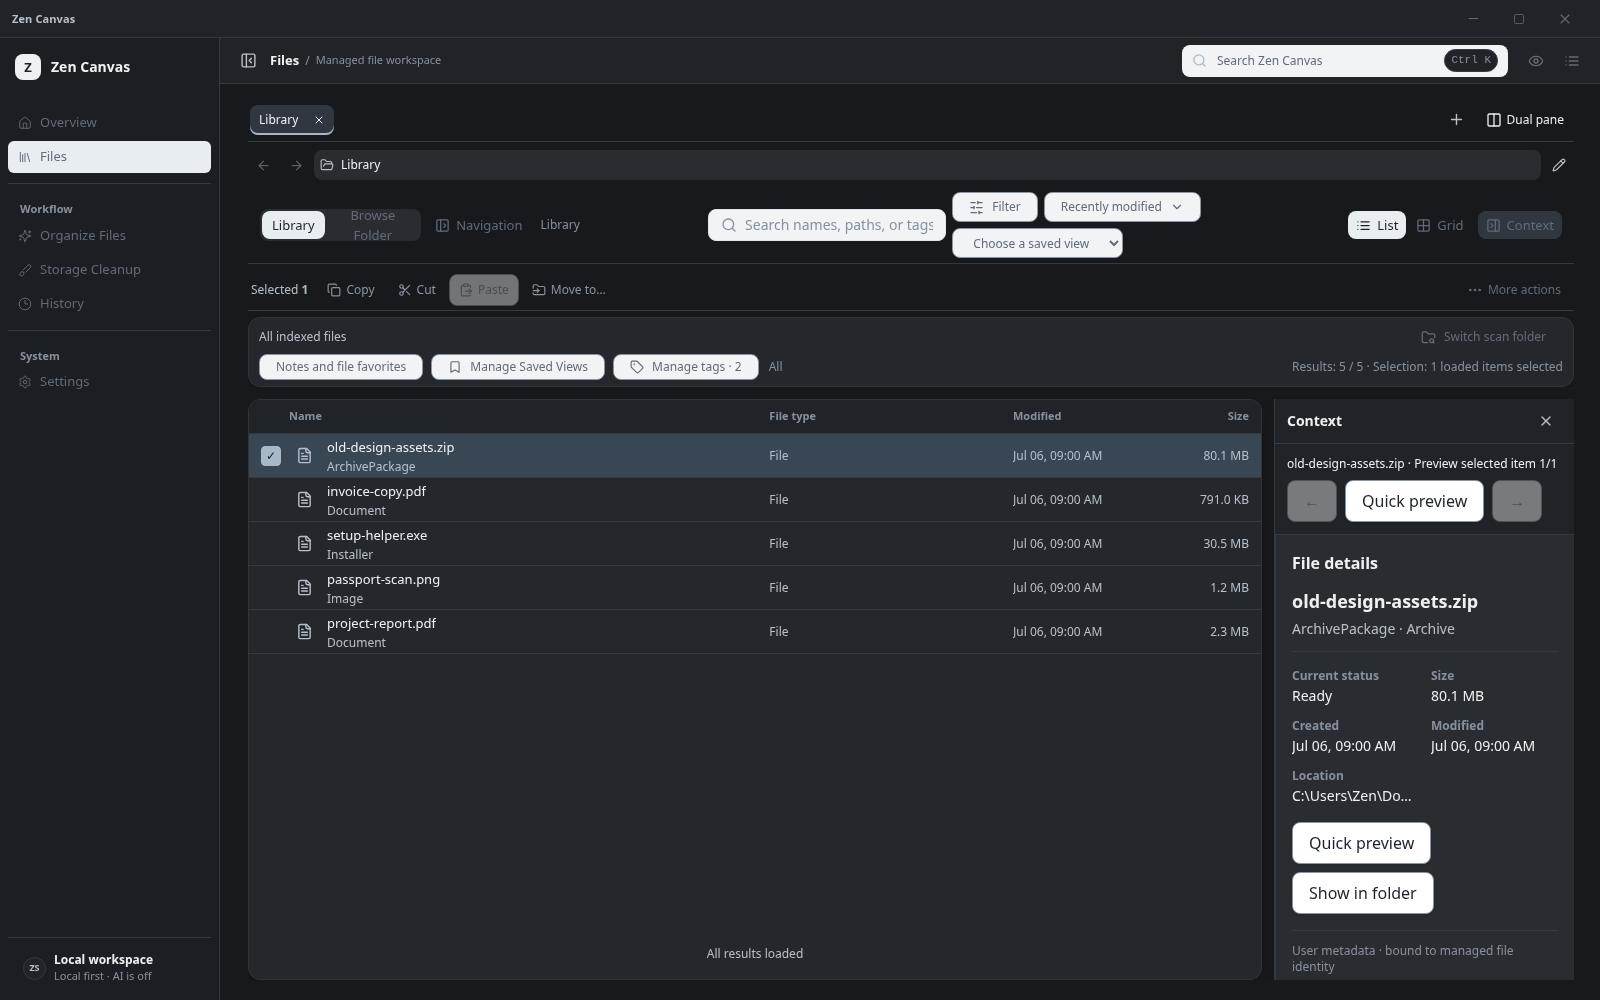
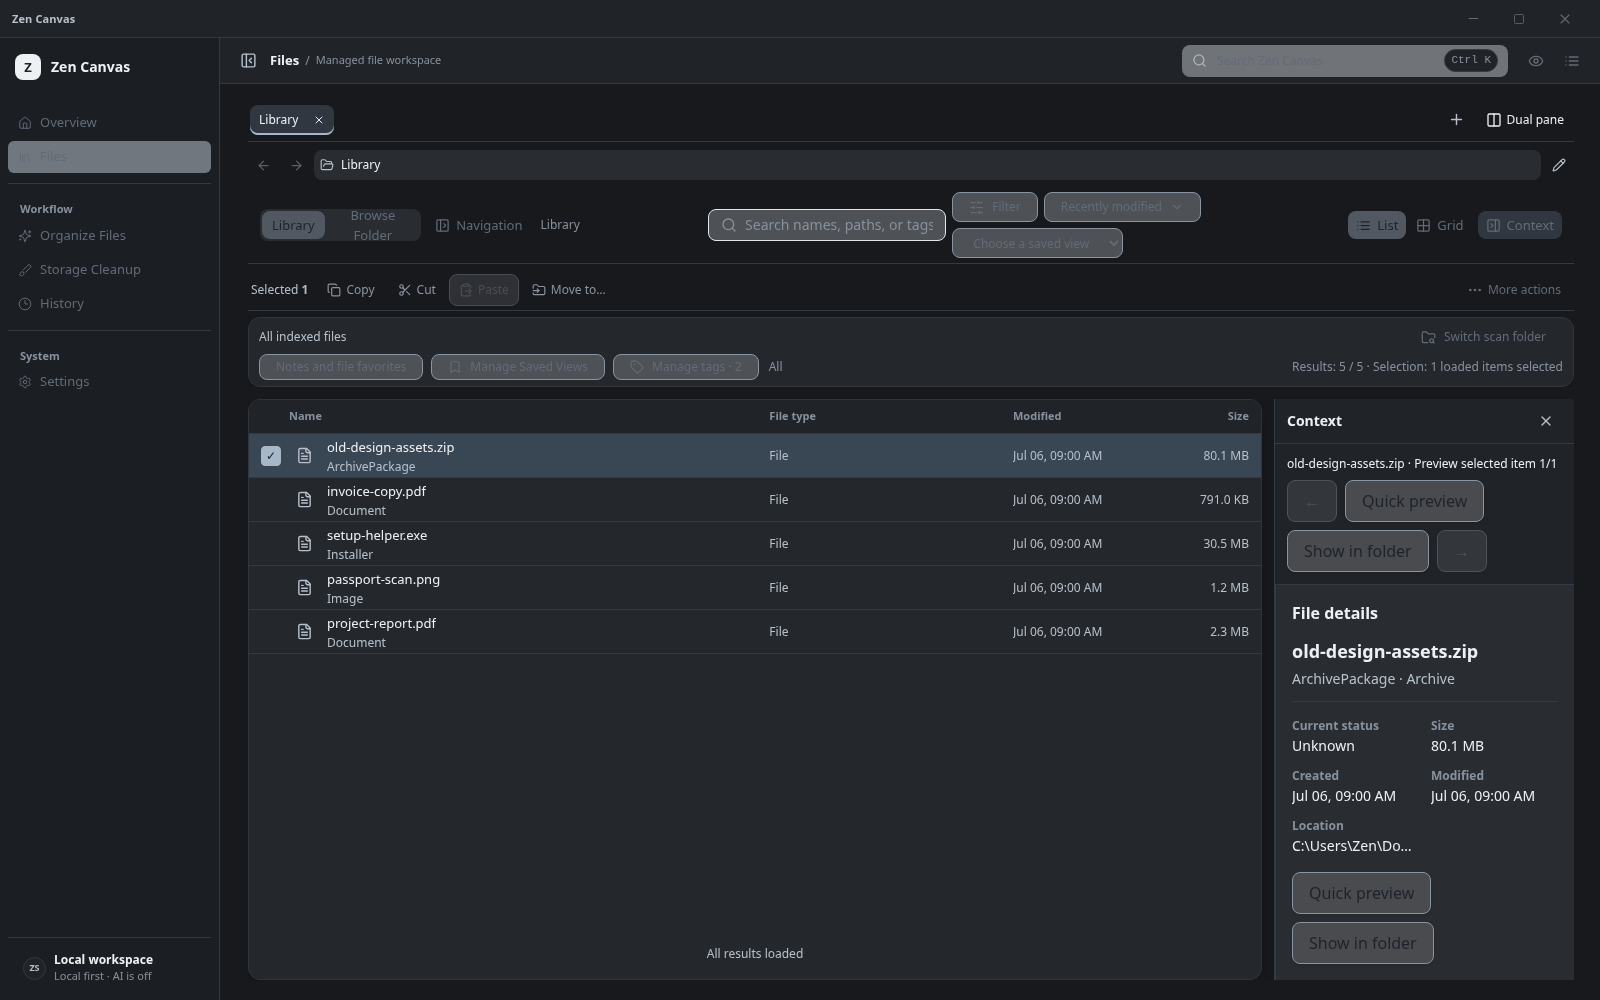
feat(files): complete source-owned Reveal and truthful Inspector metadata

diff --git a/src/views/fileLibrary/context/ContextPanel.tsx b/src/views/fileLibrary/context/ContextPanel.tsx
@@ -4,6 +4,7 @@ import { buttonSecondary } from "../../../utils/tw";
 import type { Translator } from "../../../types/ui";
 import { File, Folder, Info, X } from "lucide-react";
 import { SideSheet } from "../../shared/ui";
+import { libraryRevealLabel } from "../presentation/fileLibraryPresentation";
 import { FileLibraryInspector } from "../../vault/components/FileLibraryInspector";
 import { formatBytes, formatDate } from "../../../utils/format";
 import { cn } from "../../../utils/tw";
@@ -40,6 +41,7 @@ export function ContextPanel({
 
   const content = (
     <div className="file-library-context-panel-content" data-file-library-context-content={projection.kind}>
+      {projection.source === "browse" && projection.actionError ? <p role="alert" className="p-3 text-sm text-[var(--zc-danger-text)]">{projection.actionError}</p> : null}
       <SelectedPreviewActions key={projection.source === "library" ? projection.inspector.selectedFiles.slice(0, SELECTED_PREVIEW_LIMIT).map((file) => file.id).join("|") : projection.selectedEntries.slice(0, SELECTED_PREVIEW_LIMIT).map((entry) => entry.entryRef.entryId).join("|")} projection={projection} />
       {projection.source === "library"
         ? <FileLibraryInspector {...projection.inspector} />
@@ -201,10 +203,14 @@ function SelectedPreviewActions({ projection }: { projection: ContextPanelProjec
     }
   };
   return <section className="grid gap-2 border-b border-[var(--zc-divider)] p-3" aria-label={t("u4SelectionPreview")}>
-    <p className="break-words text-xs">{name} · {t("u4SelectionPreview")} {index + 1}/{items.length}</p>
+    <p className="break-words text-xs">{name}{"isStale" in current && current.isStale ? ` · ${t("libraryFileNotFound")}` : ""} · {t("u4SelectionPreview")} {index + 1}/{items.length}</p>
     <div className="flex flex-wrap gap-2">
       <button className={buttonSecondary} disabled={index === 0} aria-label={t("u4Previous")} onClick={(event) => preview(index - 1, event.currentTarget)}>←</button>
       <button className={buttonSecondary} disabled={"isStale" in current && current.isStale} onClick={(event) => preview(index, event.currentTarget)}>{t("libraryPreview")}</button>
+      <button className={buttonSecondary} disabled={"isStale" in current && current.isStale} onClick={() => {
+        if (projection.source === "library") { const file = projection.inspector.selectedFiles[index]; if (file) projection.inspector.onReveal(file.id); }
+        else { const entry = projection.selectedEntries[index]; if (entry) projection.onReveal?.(entry); }
+      }}>{libraryRevealLabel(t)}</button>
       <button className={buttonSecondary} disabled={index + 1 >= items.length} aria-label={t("u4Next")} onClick={(event) => preview(index + 1, event.currentTarget)}>→</button>
     </div>
   </section>;

diff --git a/tests/fileLibraryU4Personal.test.tsx b/tests/fileLibraryU4Personal.test.tsx
@@ -80,3 +80,26 @@ it("selected preview navigation preserves owner state and rejects an expired nei
     expect(navigation).toBeNull();
   } finally { await act(async () => root.unmount()); container.remove(); }
 });
+
+it("Browse Reveal resolves live refs in the mock and honestly refuses native GUI claims", async () => {
+  const { mockFileWorkspaceInvoke } = await import("../src/api/fileWorkspaceMockApi");
+  const opened = await mockFileWorkspaceInvoke<import("../src/types/fileWorkspace").BrowseOpenResponse>("file_workspace_browse_open", { request: { platform: "windows", routingHint: "C:/U4/Reveal", displayHint: "Reveal test" } });
+  const page = await mockFileWorkspaceInvoke<import("../src/types/fileWorkspace").BrowsePage>("file_workspace_browse_start_enumeration", { request: { sessionId: opened.sessionId, requestId: "u4-reveal", pathRef: opened.rootPathRef, pageSize: 16 } });
+  const entryRef = page.entries[0].ref;
+  await expect(mockFileWorkspaceInvoke("file_workspace_browse_reveal", { request: { entryRef } })).rejects.toThrow("browser_mock_reveal_unavailable");
+  await expect(mockFileWorkspaceInvoke("file_workspace_browse_reveal", { request: { entryRef: { ...entryRef, entryId: "foreign-ref" } } })).rejects.toThrow();
+  await mockFileWorkspaceInvoke("file_workspace_browse_dispose", { request: { sessionId: opened.sessionId } });
+  await expect(mockFileWorkspaceInvoke("file_workspace_browse_reveal", { request: { entryRef } })).rejects.toThrow();
+});
+
+it("managed Inspector keeps unknown timestamp sentinels explicit", async () => {
+  const { renderToStaticMarkup } = await import("react-dom/server");
+  const { FileLibraryInspector } = await import("../src/views/vault/components/FileLibraryInspector");
+  const detail = await mockInvokeCommand<import("../src/types/domain").FileLibraryDetail>("get_file_library_detail", { fileId: "mock-report" });
+  const html = renderToStaticMarkup(createElement(FileLibraryInspector, { selectedIds: new Set([detail.id]), selectedFiles: [], selectionKind: "explicit", selectedCount: 1, detail: { ...detail, createdAt: 0, modifiedAt: 0, nativeSemantics: null }, selectionSummary: null, isLoading: false, error: null, language: "en", t: makeTranslator("en"), onPreview: vi.fn(), onReveal: vi.fn(), onViewSuggestions: vi.fn(), onViewOperations: vi.fn(), onOpenContentUnderstanding: vi.fn(), onClearSelection: vi.fn(), onRetryDetail: vi.fn() }));
+  const container = document.createElement("div"); container.innerHTML = html;
+  for (const label of ["Created", "Modified", "Current status"]) {
+    const field = [...container.querySelectorAll("dt")].find((item) => item.textContent === label)!;
+    expect(field.nextElementSibling?.textContent).toBe("Unknown");
+  }
+});

diff --git a/src/views/vault/components/FileLibraryInspector.tsx b/src/views/vault/components/FileLibraryInspector.tsx
@@ -183,10 +183,10 @@ function SingleInspector({ detail, language, t, onPreview, onReveal, onViewSugge
     <div className="grid gap-4">
       <div className="min-w-0 border-b border-[var(--zc-divider)] pb-3"><h3 className="break-words text-lg font-semibold text-[var(--zc-text-primary)]">{detail.name}</h3><p className="mt-1 text-sm text-[var(--zc-text-secondary)]">{detail.fileType} · {detail.purpose}</p></div>
       <dl className="grid grid-cols-2 gap-3 text-sm">
-        <InspectorField label={t("libraryCurrentStatus")} value={missing ? t("libraryFileNotFound") : t("libraryReady")} tone={missing ? "warning" : "normal"} />
+        <InspectorField label={t("libraryCurrentStatus")} value={missing ? t("libraryFileNotFound") : detail.nativeSemantics ? nativeAvailabilityLabel(detail.nativeSemantics.contentAvailability, t) : t("browseUnknownValue")} tone={missing ? "warning" : "normal"} />
         <InspectorField label={t("fileLibraryContextSize")} value={formatBytes(detail.size)} />
-        <InspectorField label={t("fileLibraryContextCreated")} value={formatDate(String(detail.createdAt), language)} />
-        <InspectorField label={t("fileModified")} value={formatDate(String(detail.modifiedAt), language)} />
+        <InspectorField label={t("fileLibraryContextCreated")} value={detail.createdAt > 0 ? formatDate(String(detail.createdAt), language) : t("browseUnknownValue")} />
+        <InspectorField label={t("fileModified")} value={detail.modifiedAt > 0 ? formatDate(String(detail.modifiedAt), language) : t("browseUnknownValue")} />
         <InspectorField label={t("fileLocation")} value={compactPath(formatDisplayPath(detail.path), 44)} title={formatDisplayPath(detail.path)} />
         {detail.nativeSemantics ? <>
           {detail.nativeSemantics.isPackage ? <InspectorField label={t("libraryNativePackage")} value={t("libraryNativePackageValue")} /> : null}

diff --git a/src/views/fileLibrary/browse/BrowseMode.tsx b/src/views/fileLibrary/browse/BrowseMode.tsx
@@ -5,6 +5,7 @@ import { useCallback, useEffect, useMemo, useRef, useLayoutEffect, useState } fr
 import { NoticeBanner, SearchField, StateBlock } from "../../shared/ui";
 import { useCommandContext, useI18nContext } from "../../../contexts/AppContexts";
 import type { LocationDescriptor } from "../../../types/fileWorkspace";
+import { revealBrowseEntry } from "../../../api/fileWorkspaceApi";
 import { cn } from "../../../utils/tw";
 import { useFileLibraryExperience } from "../FileLibraryExperienceProvider";
 import {
@@ -36,9 +37,11 @@ export function BrowseMode() {
   useLayoutEffect(() => { setBreadcrumbHost(pane ? document.getElementById(`wb-crumbs-${pane.id}`) : null); }, [pane?.id]);
   const { controller, state } = useFileLibraryExperience();
   const { language, t } = useI18nContext();
+  const [revealError, setRevealError] = useState<string | null>(null);
   const { platform } = useCommandContext();
   const source = useBrowseSourceOwner({ controller, state, t, platform });
   useBrowseManagementSurface(source);
+  useEffect(() => setRevealError(null), [source.focusedId]);
   const { controller: previewController, state: previewState } = usePreviewExperience();
   const interaction = useMemo(() => createBrowseInteractionProjection(source), [source]);
   const focusedPreviewSource = useMemo(() => {
@@ -153,6 +156,8 @@ export function BrowseMode() {
     locationLabel: source.browse?.location.displayName ?? t("fileLibraryModeBrowse"),
     language,
     t,
+    actionError: revealError,
+    onReveal: (entry) => { setRevealError(null); void revealBrowseEntry(entry.entryRef).catch(() => setRevealError(t("u4RevealUnavailable"))); },
     onPreview: (entry, trigger) => { previewSelected(selectedPreviewEntries.findIndex((item) => item.entryRef.entryId === entry.entryRef.entryId), query("[data-file-library-context-toggle]") ?? trigger); }
   });
 

diff --git a/src/views/fileLibrary/context/contextPanelProjection.ts b/src/views/fileLibrary/context/contextPanelProjection.ts
@@ -29,6 +29,8 @@ export interface BrowseContextTypeCount {
 
 export interface BrowseContextProjection {
   readonly source: "browse";
+  readonly actionError?: string | null;
+  readonly onReveal?: (entry: BrowsePresentationEntry) => void;
   readonly onPreview?: (entry: BrowsePresentationEntry, trigger: HTMLElement) => void;
   readonly kind: ContextPanelContentKind;
   readonly selectedEntries: readonly BrowsePresentationEntry[];
@@ -79,8 +81,12 @@ export function createBrowseContextProjection({
   locationLabel,
   language,
   t,
-  onPreview
+  onPreview,
+  onReveal,
+  actionError
 }: {
+  actionError?: string | null;
+  onReveal?: (entry: BrowsePresentationEntry) => void;
   onPreview?: (entry: BrowsePresentationEntry, trigger: HTMLElement) => void;
   entries: readonly BrowsePresentationEntry[];
   selectedIds: ReadonlySet<string>;
@@ -95,6 +101,8 @@ export function createBrowseContextProjection({
   return {
     source: "browse",
     onPreview,
+    onReveal,
+    actionError,
     kind: selectedCount === 0 ? "none" : selectedCount === 1 ? "inspector" : "selection-summary",
     selectedEntries,
     selectedCount,

diff --git a/tests/tauriCommandPermissions.test.ts b/tests/tauriCommandPermissions.test.ts
@@ -200,6 +200,7 @@ const explicitContracts: CommandContract[] = [
       "file_workspace_transfer_execute",
       "file_workspace_places",
       "file_workspace_browse_open",
+      "file_workspace_browse_reveal",
       "file_workspace_browse_restore",
       "file_workspace_location_browse",
       "file_workspace_browse_start_enumeration",
@@ -666,6 +667,7 @@ describe("Tauri command permission contract", () => {
       "file_workspace_transfer_execute",
       "file_workspace_places",
       "file_workspace_browse_open",
+      "file_workspace_browse_reveal",
       "file_workspace_browse_restore",
       "file_workspace_location_browse",
       "file_workspace_browse_start_enumeration",
@@ -700,7 +702,7 @@ describe("Tauri command permission contract", () => {
       "file_workspace_preview_dispose",
     ]);
 
-    expect(commands).toHaveLength(29);
+    expect(commands).toHaveLength(30);
     for (const command of commands) {
       const parsed = functionBody(fileWorkspaceCommandsSource, command);
       expect(parsed, `${command} function body`).not.toBeNull();

diff --git a/src/i18n/dictionary.ts b/src/i18n/dictionary.ts
@@ -1165,6 +1165,7 @@ const zh = {
   librarySortDescending: "降序",
   librarySortLoadedOnly: "当前仅对已加载文件排序",
   libraryInspector: "文件详情",
+  u4RevealUnavailable: "无法在系统文件管理器中显示此项目。项目可能已变动或当前环境不支持此操作；请刷新文件夹后重试。",
   u4Notes: "文件笔记",
   u4Favorite: "收藏文件",
   u4Unfavorite: "取消文件收藏",
@@ -4088,6 +4089,7 @@ const en: Record<keyof typeof zh, string> = {
   librarySortDescending: "Descending",
   librarySortLoadedOnly: "Sorting loaded files only",
   libraryInspector: "File details",
+  u4RevealUnavailable: "Cannot show this item in the system file manager. The item may have changed or this environment may not support it. Refresh the folder and try again.",
   u4Notes: "File notes",
   u4Favorite: "Favorite file",
   u4Unfavorite: "Unfavorite file",

diff --git a/src/api/fileWorkspaceMockApi.ts b/src/api/fileWorkspaceMockApi.ts
@@ -30,6 +30,7 @@ import type { FolderSummaryPayloadV1 } from "./folderPreviewWire";
 
 const FILE_WORKSPACE_COMMANDS = new Set([
   "file_workspace_browse_open",
+  "file_workspace_browse_reveal",
   "file_workspace_browse_restore",
   "file_workspace_location_browse",
   "file_workspace_browse_start_enumeration",
@@ -432,6 +433,9 @@ export async function mockFileWorkspaceInvoke<T>(
 ): Promise<T> {
   const request = args?.request as Record<string, unknown> | undefined;
   switch (command) {
+    case "file_workspace_browse_reveal":
+      resolveManagementMockEntry(request?.entryRef as import("../types/fileWorkspace").EntryRef);
+      throw new Error("browser_mock_reveal_unavailable");
     case "file_workspace_browse_open":
       return openBrowse(request as unknown as BrowseOpenRequest) as T;
     case "file_workspace_browse_restore":

diff --git a/src/api/fileWorkspaceApi.ts b/src/api/fileWorkspaceApi.ts
@@ -183,3 +183,8 @@ export const fileWorkspaceApi: FileWorkspaceApi = {
     await command<ArrayBuffer>("file_workspace_preview_asset_request", request)
   )
 };
+
+/** Reveal uses only a live source-owned ref; it never accepts a renderer path. */
+export function revealBrowseEntry(entryRef: import("../types/fileWorkspace").BrowseEntryRef): Promise<void> {
+  return invokeCommand("file_workspace_browse_reveal", { request: { entryRef } });
+}

diff --git a/src-tauri/src/file_workspace/integration/tests.rs b/src-tauri/src/file_workspace/integration/tests.rs
@@ -1624,3 +1624,52 @@ fn shared_thumbnail_surface_is_explicitly_unsupported_without_native_renderer() 
     assert_eq!(error, "thumbnail_renderer_unsupported");
     runtime.dispose();
 }
+
+#[test]
+fn u4_browse_reveal_resolves_only_owned_live_refs_without_index_admission() {
+    use super::types::{BrowseRevealRequest, BrowseSessionRequest};
+    let fixture = Fixture::new("u4-reveal");
+    let runtime = fixture.runtime();
+    let opened = runtime.open_browse(open_request(&fixture)).unwrap();
+    let page = runtime
+        .start_enumeration(BrowseStartEnumerationRequest {
+            session_id: opened.session_id.clone(),
+            request_id: "u4-reveal".into(),
+            path_ref: opened.root_path_ref,
+            page_size: 16,
+            query: Default::default(),
+        })
+        .unwrap();
+    let entry = page
+        .entries
+        .iter()
+        .find(|entry| entry.name == "entry.txt")
+        .unwrap();
+    let request = BrowseRevealRequest {
+        entry_ref: entry.entry_ref.clone(),
+    };
+    assert_eq!(
+        runtime.resolve_browse_reveal_path(request.clone()).unwrap(),
+        fixture.root.join("entry.txt")
+    );
+    // This tests backend resolution only; it never launches the OS GUI.
+    assert!(serde_json::from_value::<BrowseRevealRequest>(
+        serde_json::json!({"entryRef":entry.entry_ref.clone(),"path":"arbitrary-renderer-path"})
+    )
+    .is_err());
+    let conn = runtime.inner.database.conn().unwrap();
+    let count: i64 = conn
+        .query_row("SELECT COUNT(*) FROM files", [], |row| row.get(0))
+        .unwrap();
+    assert_eq!(count, 0);
+    drop(conn);
+    fs::remove_file(fixture.root.join("entry.txt")).unwrap();
+    assert!(runtime.resolve_browse_reveal_path(request.clone()).is_err());
+    runtime
+        .dispose_browse(BrowseSessionRequest {
+            session_id: opened.session_id,
+        })
+        .unwrap();
+    assert!(runtime.resolve_browse_reveal_path(request).is_err());
+    runtime.dispose();
+}

diff --git a/src-tauri/src/file_workspace/integration/commands.rs b/src-tauri/src/file_workspace/integration/commands.rs
@@ -70,6 +70,25 @@ where
 }
 
 #[tauri::command]
+pub async fn file_workspace_browse_reveal<R: Runtime>(
+    window: WebviewWindow<R>,
+    runtime: State<'_, FileWorkspaceRuntimeOwner>,
+    request: super::types::BrowseRevealRequest,
+) -> Result<(), String> {
+    require_main_window(&window)?;
+    let runtime = runtime.acquire_for_window(&window)?;
+    spawn_runtime(runtime.clone(), "workspace_browse_reveal", move |runtime| {
+        let path = runtime.resolve_browse_reveal_path(request)?;
+        crate::file_ops::reveal_in_folder(
+            path.to_str()
+                .ok_or("workspace_reveal_path_unrepresentable")?
+                .to_string(),
+        )
+    })
+    .await
+}
+
+#[tauri::command]
 pub async fn file_workspace_browse_open<R: Runtime>(
     window: WebviewWindow<R>,
     runtime: State<'_, FileWorkspaceRuntimeOwner>,

diff --git a/src-tauri/src/file_workspace/integration/browse.rs b/src-tauri/src/file_workspace/integration/browse.rs
@@ -17,6 +17,22 @@ use crate::file_workspace::{
 use std::path::PathBuf;
 
 impl FileWorkspaceRuntime {
+    /// Read-only OS Reveal: the owning session resolves the path, never the renderer.
+    pub(crate) fn resolve_browse_reveal_path(
+        &self,
+        request: super::types::BrowseRevealRequest,
+    ) -> Result<PathBuf, String> {
+        self.ensure_live()?;
+        let entry = self
+            .inner
+            .browse
+            .resolve_entry(&request.entry_ref)
+            .map_err(map_browse_error)?;
+        std::fs::symlink_metadata(&entry.path)
+            .map_err(|_| "workspace_reveal_entry_unavailable".to_string())?;
+        Ok(entry.path)
+    }
+
     pub(crate) fn open_browse(
         &self,
         request: BrowseOpenRequest,
